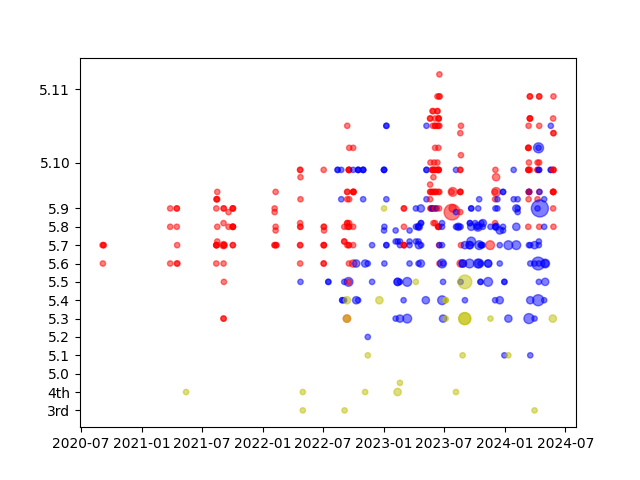
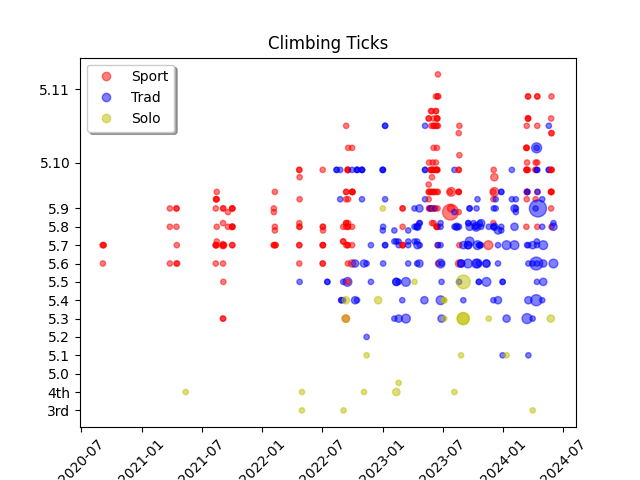
- improve date x axis labeling (done)   - provide key for colors (done)   - update pandas/plot logic in the api (DONE)

diff --git a/parse_ticks.py b/parse_ticks.py
@@ -1,11 +1,48 @@
+from matplotlib.colors import ListedColormap
+from urllib import request
 import matplotlib.pyplot as plt
 import pandas as pd
 import numpy
 import re
-from urllib import request
+import datetime
+import math
 
 TICK_FILENAME = 'ticks.csv'
 PLOT_FILENAME = 'tick_plot.png'
+
+def normailize_rating_code(x):
+    conditions = {
+        800: 1625, # '3rd'
+        900: 1875, # '4th'
+        950: 2000, # 'Easy 5th'
+        1000: 2125, # '5.0'
+        1100: 2375, # '5.1'
+        1200: 2625, # '5.2'
+        1300: 2875, # '5.3'
+        1400: 3125, # '5.4'
+        1500: 3375, # '5.5'
+        1600: 3625, # '5.6'
+        1800: 3875, # '5.7'
+        1900: 3925, # '5.7+'
+        2000: 4075, # '5.8-'
+        2100: 4125, # '5.8'
+        2200: 4175, # '5.8+'
+        2300: 4325, # '5.9-'
+        2400: 4375, # '5.9'
+        2500: 4425} # '5.9+'
+    if abs(3000 - x) <= 500: # 5.10
+        x += 2000
+    elif abs(5000 - x) <= 500: # 5.11
+        x += 1000
+    elif abs(9000 - x) <= 500: # 5.13
+        x -= 1000
+    elif abs(11000 - x) <= 500: # 5.14
+        x -= 2000
+    elif abs(12000 - x) <= 500: # 5.15
+        x -= 2000
+    else:
+        x = conditions.get(x, x)
+    return x
 
 def download_ticks(user_url):
     # sanitize inputs
@@ -24,13 +61,36 @@ def get_tick_df():
     columns = ['Date', 'Rating Code', 'Route Type', 'Pitches', 'Style']
     df = df.loc[df['Style'].isin(style_types), columns]
     df = df.loc[df['Route Type'].str.contains('Trad|Sport', regex=True)]
+    df['Date'] = df['Date'].apply(lambda x: datetime.datetime.strptime(x, "%Y-%m-%d").date() if type(x) == str else x)
     df = df.sort_values(by='Date', ascending=True)
+    df['Normalized Rating Code'] = df['Rating Code'].apply(normailize_rating_code)
     return df
+
+def generate_yticks(ylim_min, ylim_max):
+    yticks = numpy.append(
+        numpy.arange(1625, 4375+1, step=250), 
+        numpy.arange(5000, 10000+1, step=1000))
+    labels = numpy.array(['3rd', '4th', '5.0', '5.1', '5.2', '5.3', '5.4', '5.5', '5.6', '5.7', '5.8', '5.9', 
+            '5.10', '5.11', '5.12', '5.13', '5.14', '5.15'])
+    filter_arr = (ylim_min <=  yticks) & (yticks <= ylim_max)
+    yticks = yticks[filter_arr]
+    labels = list(labels[filter_arr])
+    return yticks, labels
 
 def save_plot(df):
     x = df['Date']
-    y = df['Rating Code']
-    plt.scatter(x, y)
+    y = df['Normalized Rating Code']
+    c = df.apply(lambda x : 3 if (x['Style'] == 'Solo') else (1 if (x['Route Type'] == 'Sport') else 2) , axis=1)
+    area = (df['Pitches'].apply(lambda x : math.pow(x, 0.9)) * 15) 
+    styles = ['Sport', 'Trad', 'Solo']
+    colors = ListedColormap(['r','b','y'])
+    scatter = plt.scatter(x, y, c=c, cmap=colors, s=area, alpha=0.5) 
+    ylim_min, ylim_max = plt.ylim()
+    yticks, ylabels = generate_yticks(ylim_min, ylim_max)
+    plt.yticks(yticks, ylabels)
+    plt.xticks(rotation=45)
+    plt.legend(handles=scatter.legend_elements()[0], labels=styles, loc='upper left', shadow=True)
+    plt.title('Climbing Ticks')
     plt.savefig(PLOT_FILENAME)
     return PLOT_FILENAME
 

diff --git a/TODO.md b/TODO.md
@@ -1,0 +1,27 @@
+TODOS
+probably a good idea to sort the todos based on priority for MVP
+
+MVP
+ - improve date x axis labeling (done)
+ - provide key for colors (done)
+ - update pandas/plot logic in the api (DONE)
+ - UI improvements
+     - use attractive components & MP theme colors
+     - widen search field
+     - change text on search button
+     - loading icons while waiting for response
+ - use temp file for csvs, dfs, and plots in a data dir
+ - get running in production
+
+
+Subsequent Improvemnts
+ - caching tick files for multiple runs and graph generations
+ - local storage for last used url
+ - smooth transitions for displaying / changing plot
+ - form for more custom graph options (groom more)
+ - best fit line?
+ - improve letter grade normalized rating codes
+ - ability to upload excel file for private ticks
+ - constraints for generating graph
+ - add bouldering and ice 
+ - advertise on MP forums & reddit
